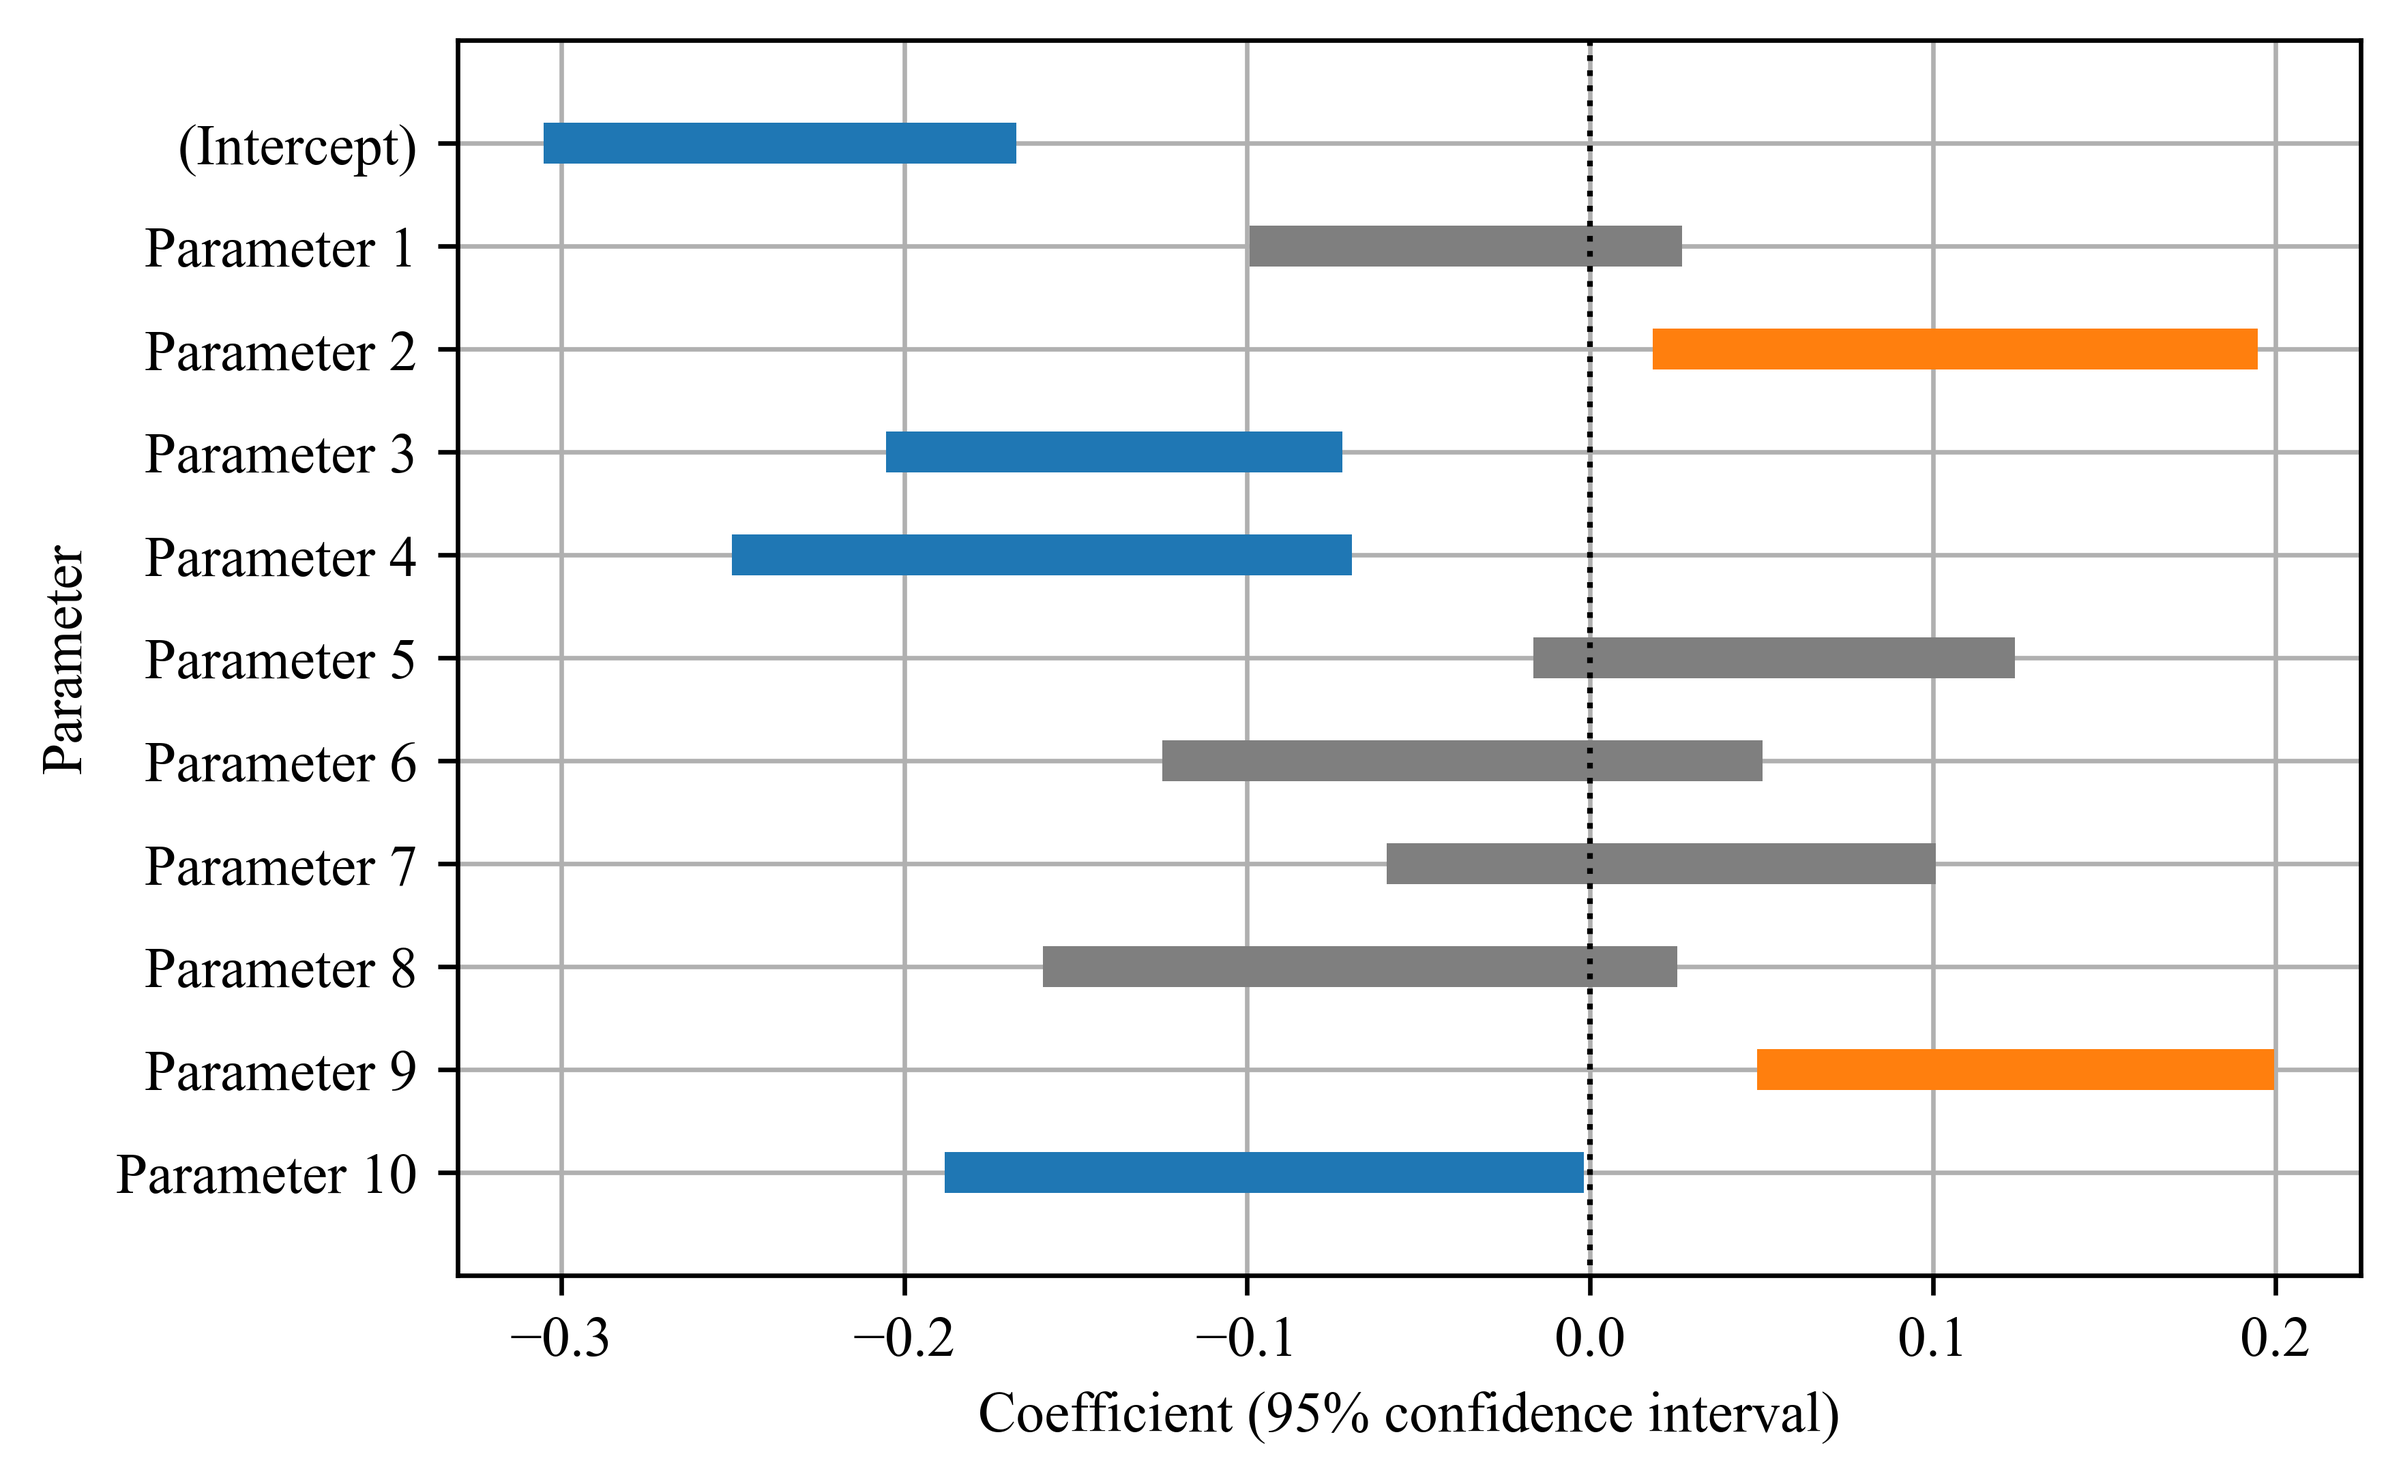
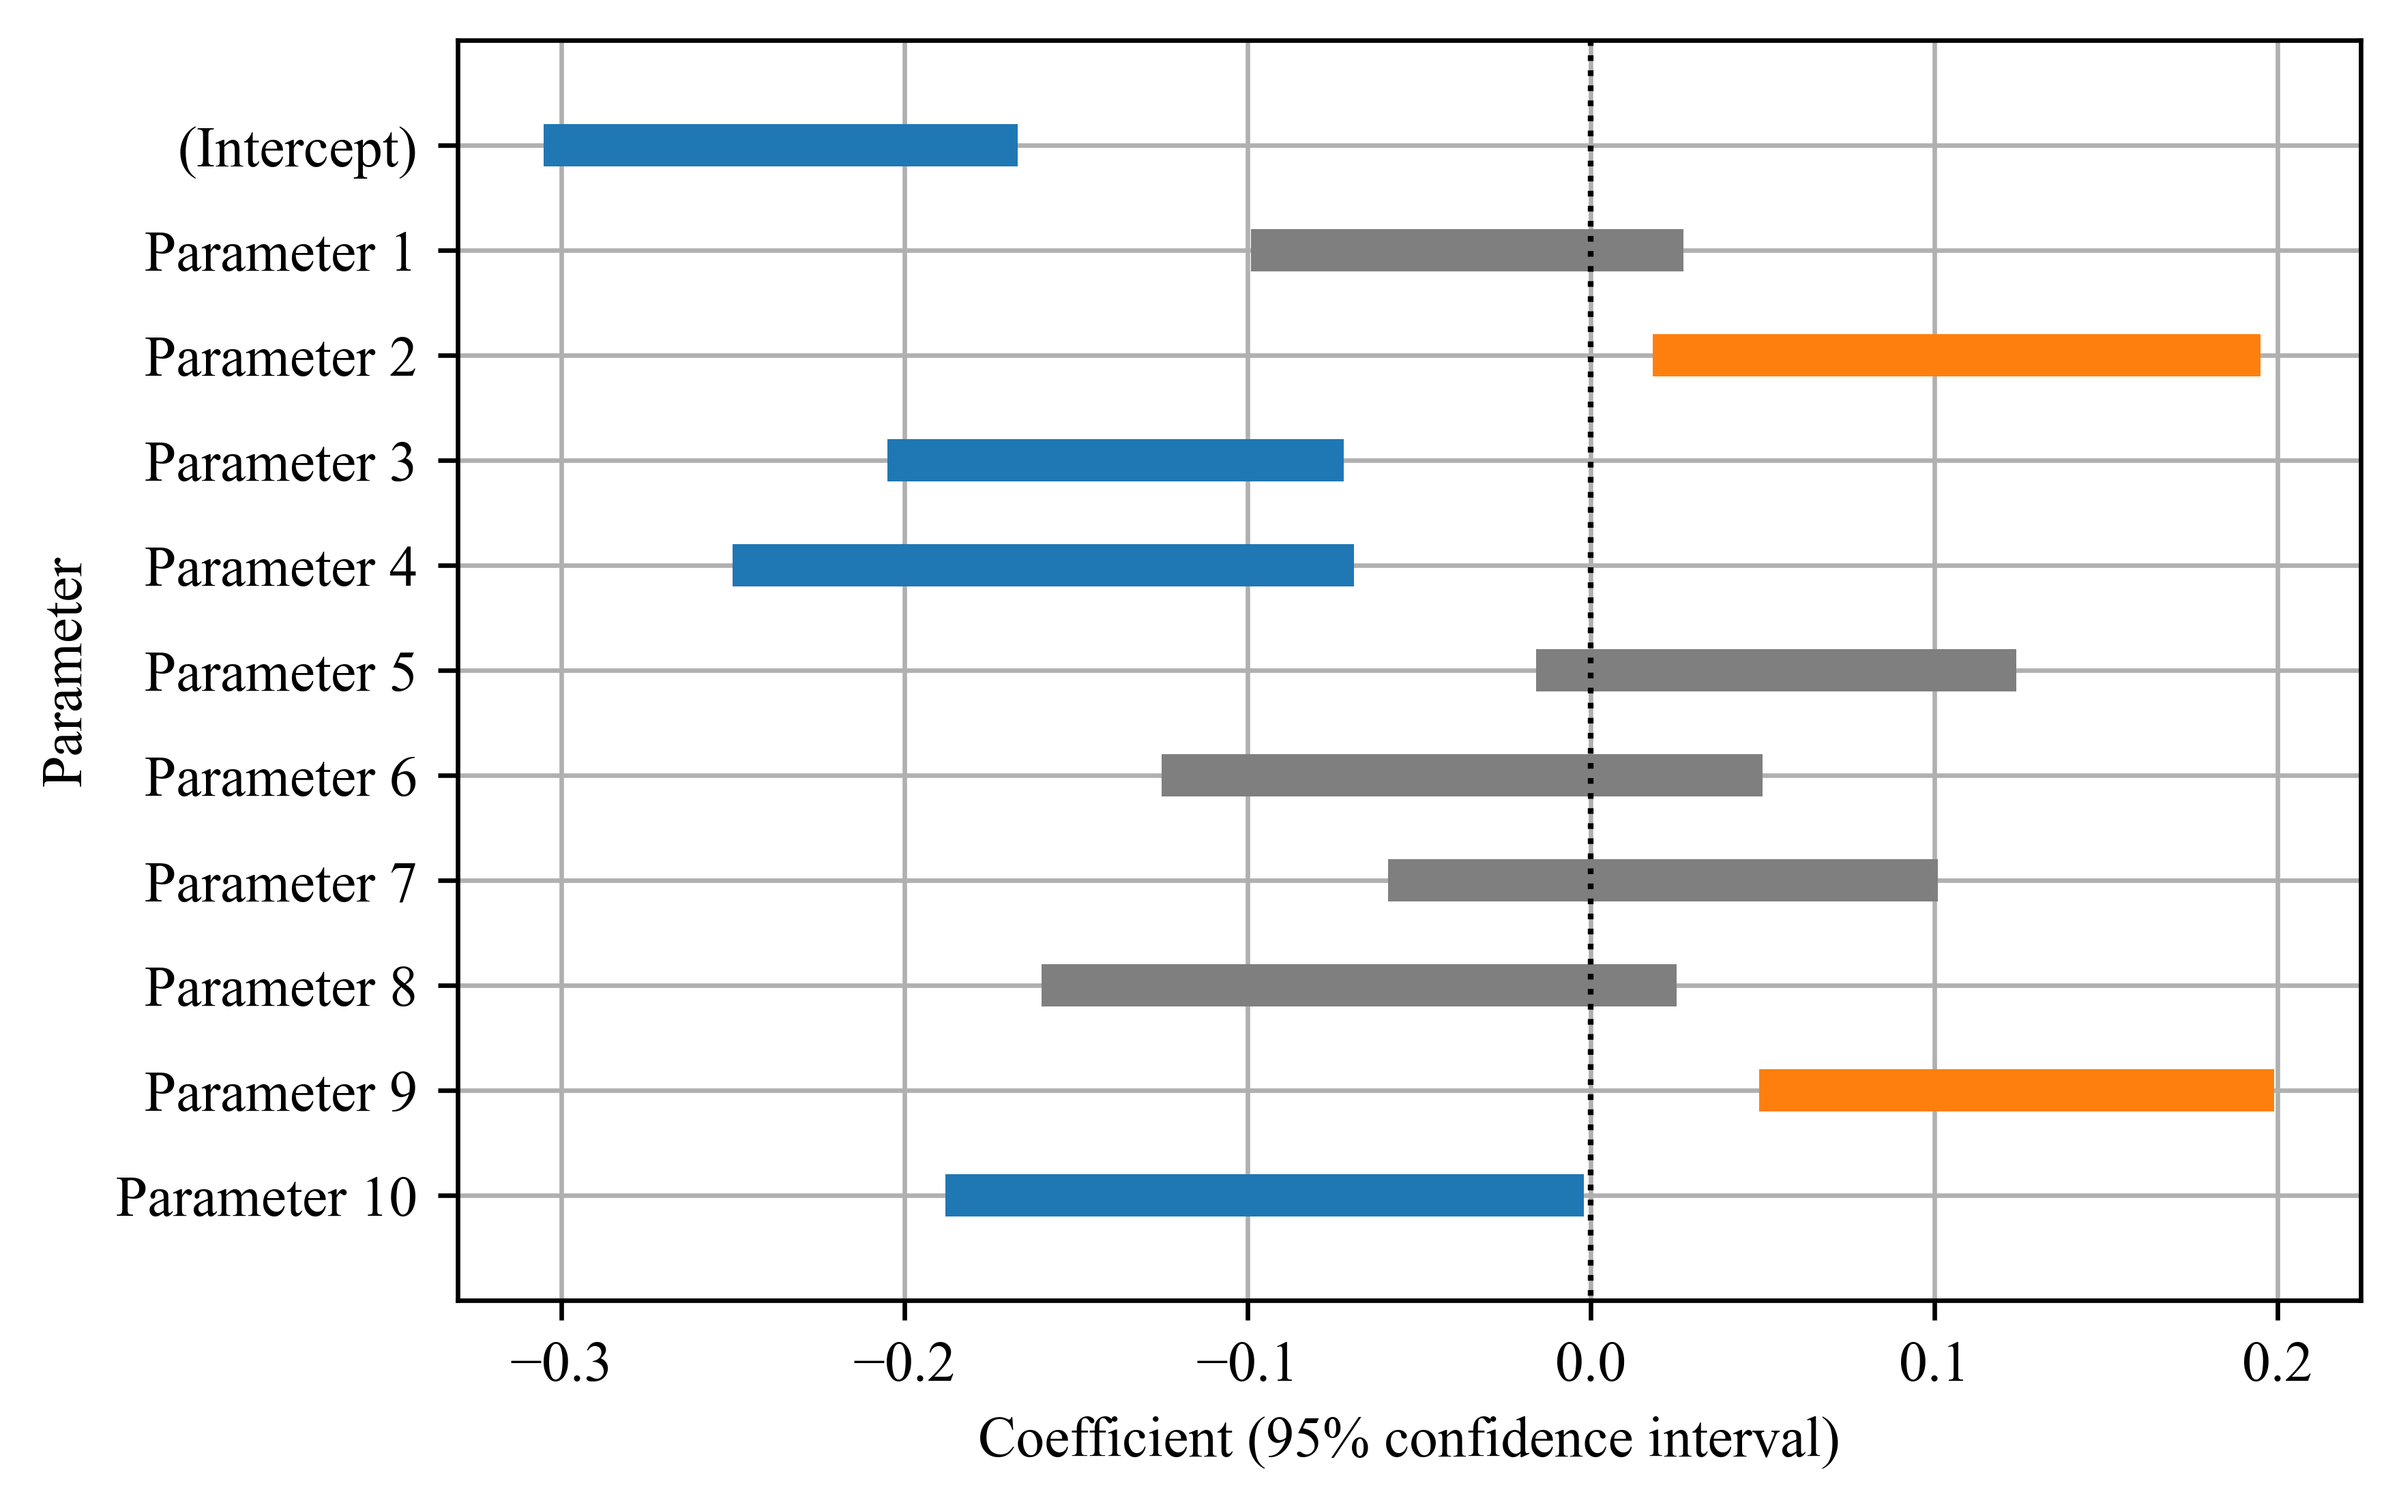
[mod] データの入力形式変更

diff --git a/PlotCoefficients.py b/PlotCoefficients.py
@@ -20,35 +20,31 @@ def barplot(x0, x1, y, height):
     else:
         plt.barh(y, x1-x0, left=x0, height=height, color = 'tab:gray')
 
-def coefbarplot(df):
+def coefbarplot(df, lower, upper):
     plt.figure(figsize = (6, 4))
-    
-    for i, cil, ciu in zip(range(len(df.index)), df['CIlower'], df['CIUpper']):
+
+    for i, cil, ciu in zip(range(len(df.index)), df[lower], df[upper]):
         barplot(cil, ciu, i, 0.4)
-    
+   
     plt.vlines(0, -1, len(df.index), color='black', linestyles='dotted', linewidth=1)
     plt.ylim(len(df.index), -1)
     plt.grid()
     plt.yticks(range(len(df.index)), df.index)
     plt.xlabel('Coefficient (95% confidence interval)')
     plt.ylabel('Parameter')
-    
+
 ##############################################
 # Main
 ##############################################
 # Read data
-path_to_file = 'path_to_file'
-filename = 'filename.csv'
+path_to_file = './'
+filename = 'sampledata.csv'
 
 df = pd.read_csv(os.path.join(path_to_file, filename),
                  index_col = 0,
                  encoding = 'SHIFT-JIS')
 
-# 95% confidence interval (Estimate: Estimated coefficient, Std. Error: Standard error)
-df['CIlower'] = df['Estimate'] - 1.96*df['Std. Error']
-df['CIUpper'] = df['Estimate'] + 1.96*df['Std. Error']
-
-coefbarplot(df)
+coefbarplot(df, lower='95%lower', upper='95%upper')
 plt.savefig(os.path.join(path_to_file, 'plot_{}.png'.format(filename[:-4])),
             dpi=600,
             bbox_inches='tight')
